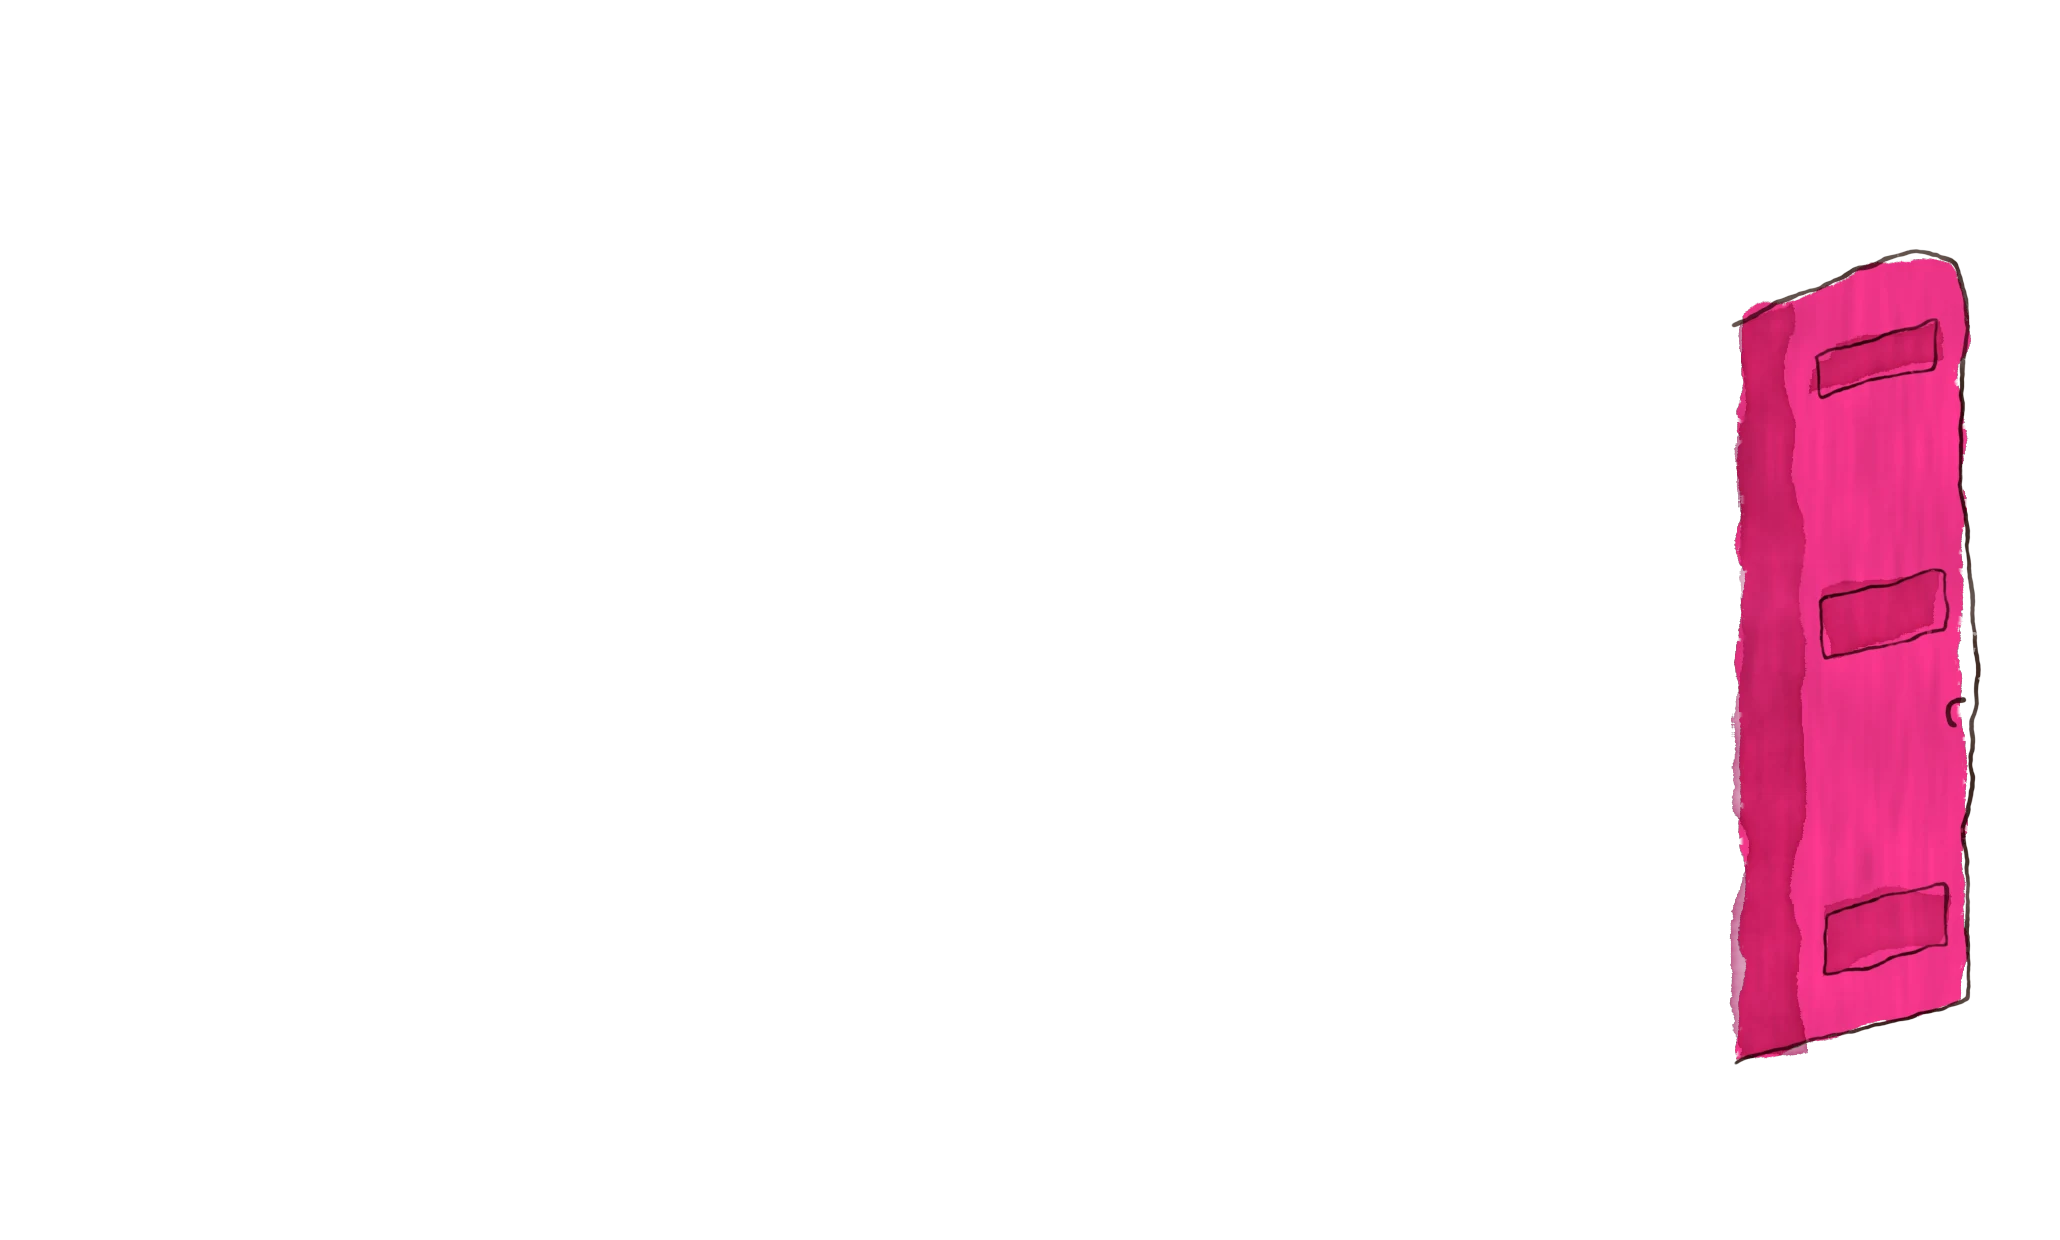
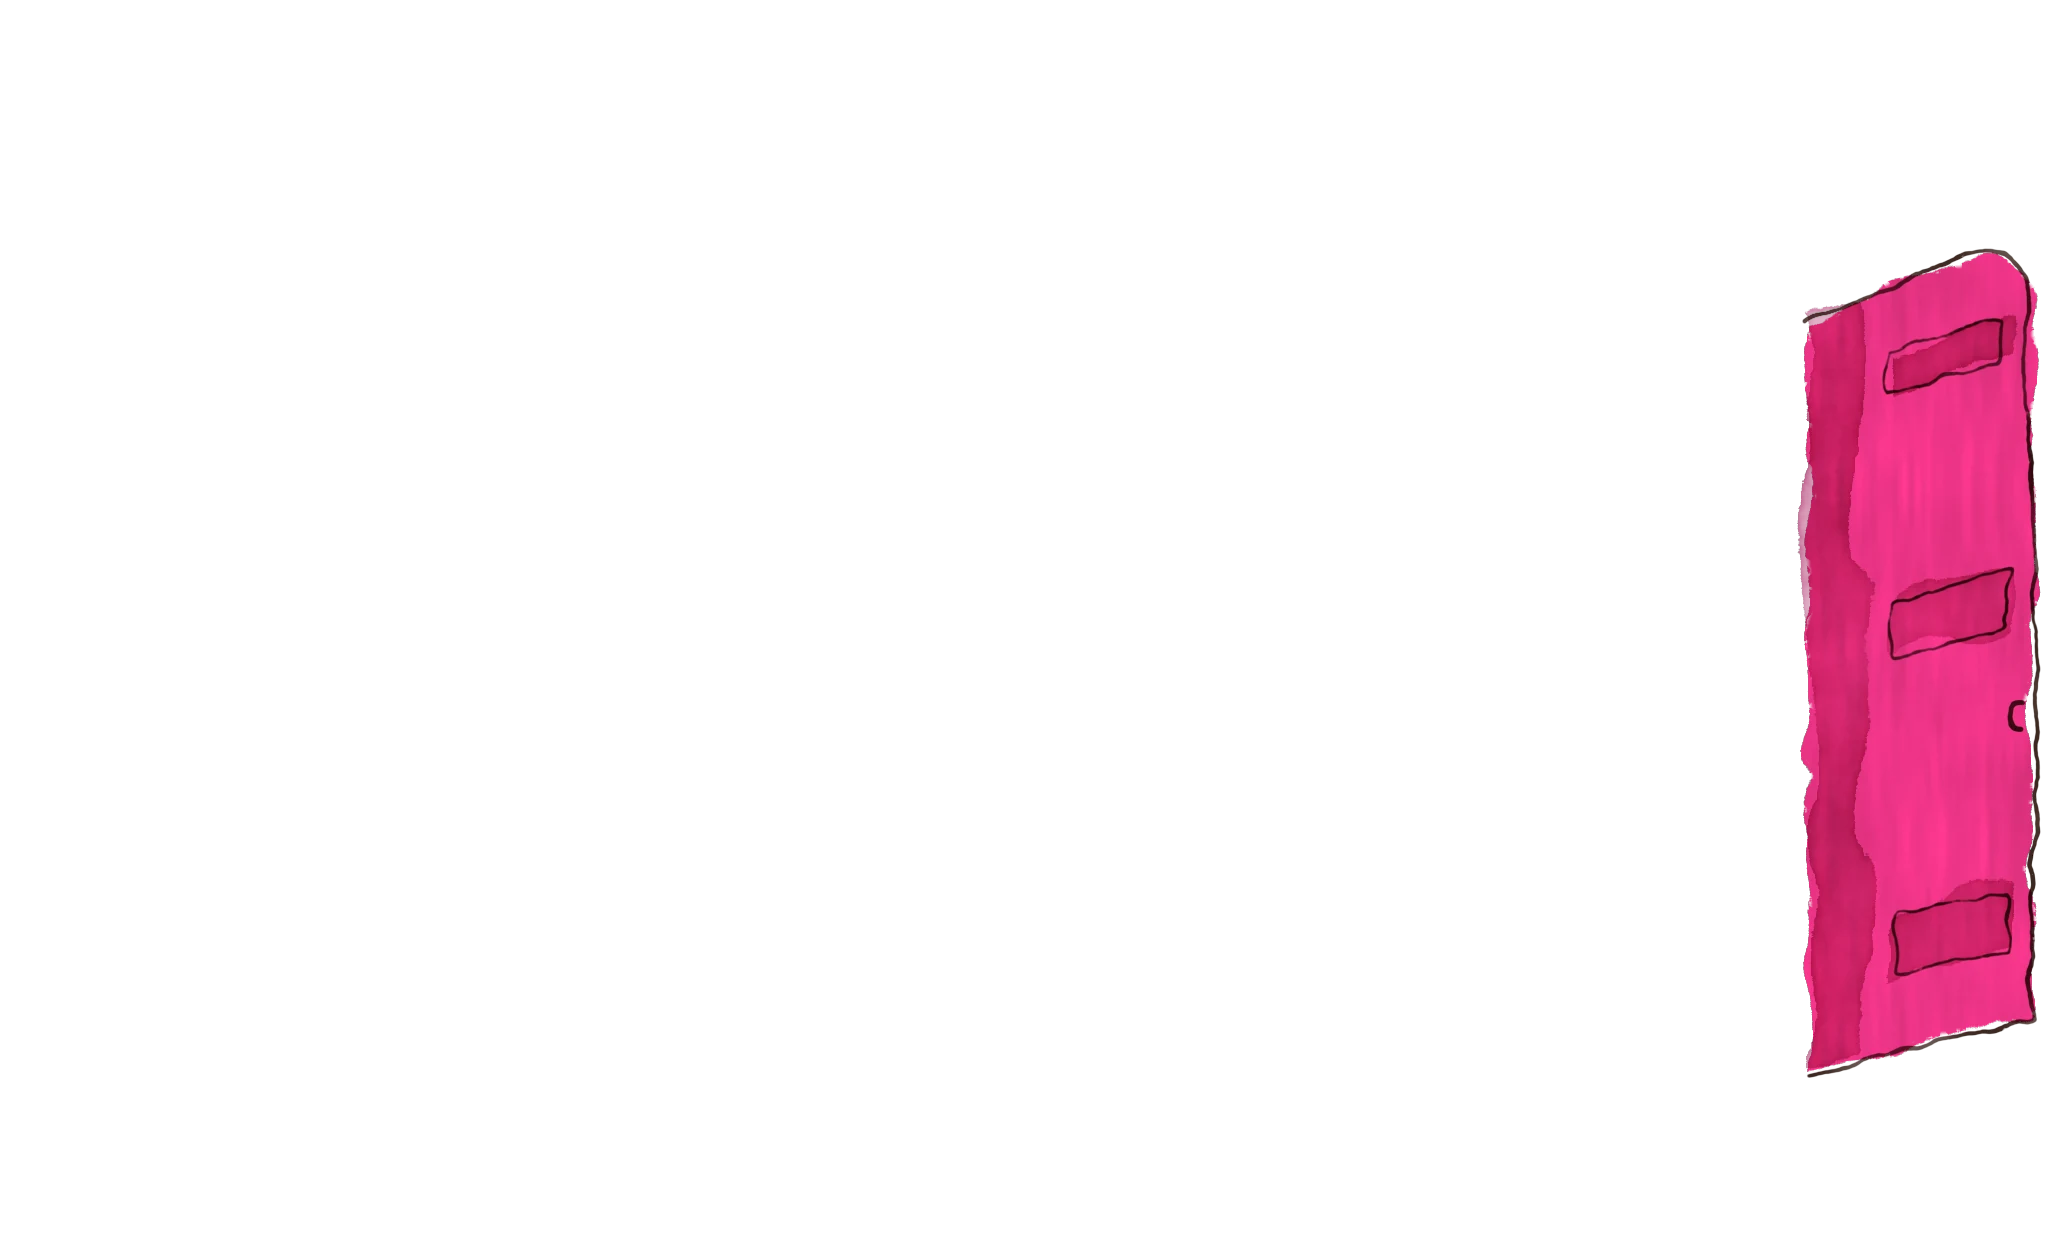
VIP door: slim frame (thinner wall and posts, shorter band above the opening, smaller plaque, pots tucked in), same rounded top; the video fills more of the door (about 690px at 1440)
Claude-Session: https://claude.ai/code/session_01MxqKXt8jC4twN2icxWpMeU

Changed region(s): [[0.8388, 0.1839, 0.9942, 0.8887]]

diff --git a/tools/paint/studio.html b/tools/paint/studio.html
@@ -439,62 +439,62 @@ svg[data-art]{background:transparent;display:block}
 </svg>
 
 <!-- hero · her door in Greece: the video sits in the arched opening (x170 y110 w670 h420); the blue door leaf swings open toward us -->
-<svg data-art="door" width="1030" height="620" viewBox="0 0 1030 620">
-  <g data-mat="shadow" fill="#8E98AA" data-density=".5"><ellipse cx="555" cy="588" rx="470" ry="14"/></g>
-  <g data-mat="gouache" data-angle="0" data-streak=".012"><path d="M96 560 V180 C96 100 190 50 320 50 H690 C820 50 914 100 914 180 V560 Z" fill="#FBF8F2"/></g>
-  <g data-mat="wash" fill="#D8CBB6" data-density=".7"><path d="M114 530 V196 C114 126 230 88 378 88 H632 C780 88 896 126 896 196 V530 H870 V200 C870 146 770 112 630 112 H380 C240 112 140 146 140 200 V530 Z"/></g>
-  <!-- Nov 4 (Sean: "i want everything to be visible ... i like the curves"): a wider opening and thinner posts, the same rounded top; inside, a soft recess so the 16:9 video sits fully under the curve -->
-  <g data-mat="gouache" data-angle="0" data-streak=".01"><path d="M140 530 V200 C140 146 240 112 380 112 H630 C770 112 870 146 870 200 V530 Z" fill="#E4DACA"/></g>
-  <g data-mat="shadow" fill="#8E7E6A" data-density=".5"><path d="M140 200 C140 146 240 112 380 112 H630 C770 112 870 146 870 200 V230 C840 190 760 150 630 150 H380 C250 150 170 190 140 230 Z"/></g>
-  <g data-mat="gouache" data-angle="0"><path d="M110 530 H900 L914 556 H96 Z" fill="#F1EADD"/><path d="M96 556 H914 L934 582 H76 Z" fill="#E7DDCB"/></g>
-  <g data-mat="wash" fill="#B7C0CC" data-density=".45"><path d="M108 556 H902 L906 562 H104 Z M76 582 H934 L936 588 H74 Z"/></g>
-  <g data-mat="wash" fill="#C9614E" data-rim="2.6"><path d="M12 582 L28 506 H118 L134 582 Z"/></g>
-  <g data-mat="wash" fill="#A9483A" data-density=".5"><path d="M24 520 H122 L120 528 H26 Z"/></g>
+<svg data-art="door" width="1032" height="620" viewBox="0 0 1032 620">
+  <!-- Nov 4 (Sean: "the graphic can maybe have a thinner frame"): a slim wall and posts around a bigger opening, a shorter
+       band above it, the pots tucked against the door; the same rounded top and hand-drawn line. The 16:9 video sits fully
+       under the curve -->
+  <g data-mat="shadow" fill="#8E98AA" data-density=".5"><ellipse cx="516" cy="592" rx="470" ry="13"/></g>
+  <g data-mat="gouache" data-angle="0" data-streak=".012"><path d="M84 566 V172 C84 94 182 46 326 46 H684 C828 46 926 94 926 172 V566 Z" fill="#FBF8F2"/></g>
+  <g data-mat="wash" fill="#D8CBB6" data-density=".7"><path d="M96 536 V184 C96 124 200 82 352 82 H658 C810 82 914 124 914 184 V536 H904 V180 C904 126 796 92 654 92 H356 C214 92 106 126 106 180 V536 Z"/></g>
+  <g data-mat="gouache" data-angle="0" data-streak=".01"><path d="M106 536 V180 C106 126 214 92 356 92 H654 C796 92 904 126 904 180 V536 Z" fill="#E4DACA"/></g>
+  <g data-mat="shadow" fill="#8E7E6A" data-density=".5"><path d="M106 180 C106 126 214 92 356 92 H654 C796 92 904 126 904 180 V206 C876 166 790 126 654 126 H356 C226 126 136 166 106 206 Z"/></g>
+  <g data-mat="gouache" data-angle="0"><path d="M100 536 H910 L922 560 H88 Z" fill="#F1EADD"/><path d="M84 560 H926 L944 584 H66 Z" fill="#E7DDCB"/></g>
+  <g data-mat="wash" fill="#B7C0CC" data-density=".45"><path d="M96 560 H914 L918 565 H92 Z M66 584 H944 L946 590 H64 Z"/></g>
+  <g data-mat="wash" fill="#C9614E" data-rim="2.6"><path d="M4 584 L18 510 H100 L114 584 Z"/></g>
+  <g data-mat="wash" fill="#A9483A" data-density=".5"><path d="M14 524 H104 L102 532 H16 Z"/></g>
   <g data-mat="wash" fill="#7E9A4E" data-rim="2.2" id="heroLeaves"></g>
   <g data-mat="gouache" data-angle="0" id="heroFlowers"></g>
   <g data-mat="wash" fill="#E05A92" data-rim="2" data-density=".8" id="heroBoug"></g>
   <g data-mat="wash" fill="#A8245E" data-rim="1.6" data-density=".55" id="heroBoug2"></g>
   <g data-mat="ink" stroke="#3A2A22" stroke-width="1.2" fill="none">
-    <path d="M96 560 V180 C96 100 190 50 320 50 H690 C820 50 914 100 914 180 V560"/>
-    <path d="M140 530 V200 C140 146 240 112 380 112 H630 C770 112 870 146 870 200 V530"/>
-    <path d="M114 530 V196 C114 126 230 88 378 88 H632 C780 88 896 126 896 196 V530" stroke-width=".8"/>
-    <path d="M110 530 H900 L914 556 H96 Z M96 556 H914 L934 582 H76 Z"/>
-    <path d="M12 582 L28 506 H118 L134 582 Z"/>
+    <path d="M84 566 V172 C84 94 182 46 326 46 H684 C828 46 926 94 926 172 V566"/>
+    <path d="M106 536 V180 C106 126 214 92 356 92 H654 C796 92 904 126 904 180 V536"/>
+    <path d="M96 536 V184 C96 124 200 82 352 82 H658 C810 82 914 124 914 184 V536" stroke-width=".8"/>
+    <path d="M100 536 H910 L922 560 H88 Z M84 560 H926 L944 584 H66 Z"/>
+    <path d="M4 584 L18 510 H100 L114 584 Z"/>
   </g>
-  <g data-mat="shadow" fill="#8E98AA" data-density=".6"><ellipse cx="508" cy="84" rx="78" ry="23"/></g>
-  <g data-mat="gouache" data-angle="0" data-streak=".01"><ellipse cx="505" cy="80" rx="78" ry="24" fill="#FFFCF3"/></g>
-  <g data-mat="wash" fill="#4F7FB4" data-density=".75" data-rim="1.4"><path d="M427 80 a78 24 0 1 0 156 0 a78 24 0 1 0 -156 0 Z M433 80 a72 19 0 1 1 144 0 a72 19 0 1 1 -144 0 Z" fill-rule="evenodd"/></g>
+  <g data-mat="shadow" fill="#8E98AA" data-density=".6"><ellipse cx="508" cy="71" rx="70" ry="19"/></g>
+  <g data-mat="gouache" data-angle="0" data-streak=".01"><ellipse cx="505" cy="67" rx="70" ry="20" fill="#FFFCF3"/></g>
+  <g data-mat="wash" fill="#4F7FB4" data-density=".75" data-rim="1.4"><path d="M435 67 a70 20 0 1 0 140 0 a70 20 0 1 0 -140 0 Z M441 67 a64 15.5 0 1 1 128 0 a64 15.5 0 1 1 -128 0 Z" fill-rule="evenodd"/></g>
   <g data-mat="gouache" data-angle="0" id="plaqueFlower"></g>
-  <g data-mat="flat" fill="#1A1412"><text x="476" y="86" class="sans" font-weight="800" font-size="15.5" letter-spacing="-.2">how we grow</text></g>
-  <g data-mat="ink" stroke="#1A1412" stroke-width="1" fill="none"><ellipse cx="505" cy="80" rx="78" ry="24"/></g>
-  <g data-mat="ink" stroke="#8A7A6E" stroke-width=".7" fill="none" data-density=".6"><path d="M42 250 h34 M36 330 h28 M50 420 h24 M940 260 h30 M948 420 h26 M380 26 h60 M660 30 h40"/></g>
+  <g data-mat="flat" fill="#1A1412"><text x="479" y="72.5" class="sans" font-weight="800" font-size="14" letter-spacing="-.2">how we grow</text></g>
+  <g data-mat="ink" stroke="#1A1412" stroke-width="1" fill="none"><ellipse cx="505" cy="67" rx="70" ry="20"/></g>
+  <g data-mat="ink" stroke="#8A7A6E" stroke-width=".7" fill="none" data-density=".6"><path d="M34 250 h34 M30 330 h28 M40 420 h24 M948 260 h30 M954 420 h26 M380 24 h60 M660 28 h40"/></g>
 </svg>
-<svg data-art="door-leaf" width="1030" height="620" viewBox="0 0 1030 620">
-  <g data-mat="gouache" data-angle="90"><path d="M870 530 L982 500 V150 C982 132 964 124 946 130 L870 160 Z" fill="#EC3486"/></g>
-  <g data-mat="wash" fill="#A3155A" data-density=".55"><path d="M870 530 L898 522 V152 L870 160 Z"/><path d="M910 486 L970 470 V440 L910 456 Z M910 330 L970 314 V284 L910 300 Z M910 196 L970 180 V160 L910 176 Z"/></g>
-
+<svg data-art="door-leaf" width="1032" height="620" viewBox="0 0 1032 620">
+  <g data-mat="gouache" data-angle="90"><path d="M904 536 L1016 506 V150 C1016 132 998 124 980 130 L904 160 Z" fill="#EC3486"/></g>
+  <g data-mat="wash" fill="#A3155A" data-density=".55"><path d="M904 536 L932 528 V152 L904 160 Z"/><path d="M944 490 L1004 474 V444 L944 460 Z M944 330 L1004 314 V284 L944 300 Z M944 196 L1004 180 V160 L944 176 Z"/></g>
   <g data-mat="ink" stroke="#3A2A22" stroke-width="1.2" fill="none">
-    <path d="M870 530 L982 500 V150 C982 132 964 124 946 130 L870 160"/>
-    <path d="M910 486 L970 470 V440 L910 456 Z M910 330 L970 314 V284 L910 300 Z M910 196 L970 180 V160 L910 176 Z" stroke-width=".8"/>
-    <path d="M974 350 c-8 0 -8 14 0 14" stroke-width="1.6"/>
+    <path d="M904 536 L1016 506 V150 C1016 132 998 124 980 130 L904 160"/>
+    <path d="M944 490 L1004 474 V444 L944 460 Z M944 330 L1004 314 V284 L944 300 Z M944 196 L1004 180 V160 L944 176 Z" stroke-width=".8"/>
+    <path d="M1008 350 c-8 0 -8 14 0 14" stroke-width="1.6"/>
   </g>
 </svg>
-<svg data-art="door-potr" width="1030" height="620" viewBox="0 0 1030 620">
-  <!-- Nov 4 (Sean: "put the right sunflower closer to the door so we can scale up this whole thing"): the right pot sits
-       against the door, in front of the open leaf's foot -->
-  <g data-mat="shadow" fill="#8E98AA" data-density=".55"><ellipse cx="958" cy="586" rx="74" ry="9"/></g>
-  <g data-mat="wash" fill="#C9614E" data-rim="2.6"><path d="M896 582 L912 506 H1002 L1018 582 Z"/></g>
-  <g data-mat="wash" fill="#A9483A" data-density=".5"><path d="M908 520 H1006 L1004 528 H910 Z"/></g>
+<svg data-art="door-potr" width="1032" height="620" viewBox="0 0 1032 620">
+  <!-- the right pot sits against the door, in front of the open leaf's foot -->
+  <g data-mat="shadow" fill="#8E98AA" data-density=".55"><ellipse cx="972" cy="588" rx="64" ry="8"/></g>
+  <g data-mat="wash" fill="#C9614E" data-rim="2.6"><path d="M916 584 L930 510 H1012 L1026 584 Z"/></g>
+  <g data-mat="wash" fill="#A9483A" data-density=".5"><path d="M926 524 H1016 L1014 532 H928 Z"/></g>
   <g data-mat="wash" fill="#7E9A4E" data-rim="2.2" id="heroLeavesR"></g>
   <g data-mat="gouache" data-angle="0" id="heroFlowersR"></g>
-  <g data-mat="ink" stroke="#3A2A22" stroke-width="1.2" fill="none"><path d="M896 582 L912 506 H1002 L1018 582 Z"/></g>
+  <g data-mat="ink" stroke="#3A2A22" stroke-width="1.2" fill="none"><path d="M916 584 L930 510 H1012 L1026 584 Z"/></g>
 </svg>
-<svg data-art="door-closed" width="1030" height="620" viewBox="0 0 1030 620">
-  <g data-mat="gouache" data-angle="90"><path d="M140 530 V200 C140 146 240 112 380 112 H630 C770 112 870 146 870 200 V530 Z" fill="#EC3486"/></g>
-  <g data-mat="wash" fill="#A3155A" data-density=".45"><path d="M230 230 H780 V340 H230 Z M230 370 H780 V500 H230 Z"/></g>
-  <g data-mat="gouache" fill="#F5C518"><circle cx="186" cy="380" r="10"/></g>
-  <g data-mat="ink" stroke="#3A2A22" stroke-width="1.2" fill="none"><path d="M140 530 V200 C140 146 240 112 380 112 H630 C770 112 870 146 870 200 V530 Z"/><path d="M230 230 H780 V340 H230 Z M230 370 H780 V500 H230 Z" stroke-width=".9"/><circle cx="186" cy="380" r="10"/></g>
-  <g data-mat="white" fill="none" stroke="#FFE3EF" stroke-width="2.6" stroke-linecap="round"><path d="M160 520 V230" /><path d="M520 140 v60" stroke-width="2"/></g>
+<svg data-art="door-closed" width="1032" height="620" viewBox="0 0 1032 620">
+  <g data-mat="gouache" data-angle="90"><path d="M106 536 V180 C106 126 214 92 356 92 H654 C796 92 904 126 904 180 V536 Z" fill="#EC3486"/></g>
+  <g data-mat="wash" fill="#A3155A" data-density=".45"><path d="M196 230 H814 V340 H196 Z M196 370 H814 V506 H196 Z"/></g>
+  <g data-mat="gouache" fill="#F5C518"><circle cx="150" cy="380" r="10"/></g>
+  <g data-mat="ink" stroke="#3A2A22" stroke-width="1.2" fill="none"><path d="M106 536 V180 C106 126 214 92 356 92 H654 C796 92 904 126 904 180 V536 Z"/><path d="M196 230 H814 V340 H196 Z M196 370 H814 V506 H196 Z" stroke-width=".9"/><circle cx="150" cy="380" r="10"/></g>
+  <g data-mat="white" fill="none" stroke="#FFE3EF" stroke-width="2.6" stroke-linecap="round"><path d="M124 526 V230" /><path d="M520 120 v60" stroke-width="2"/></g>
 </svg>
 
 <svg data-art="mini-rev" width="160" height="200" viewBox="0 0 160 200">
@@ -1518,7 +1518,7 @@ document.fonts.ready.then(() => {
   if (hl) { let L = '', F = '', B = '';
     // sunflowers in the two pots, bookends (Hotel Le Luv's topiaries)
     let LR = '', FR = '';
-    [[72, 506], [956, 506]].forEach(([x, y], k) => { let L0 = L.length, F0 = F.length; const stems = k ? [[-30, 132, -10], [-4, 186, -4], [26, 150, 8]] : [[-26, 150, -8], [6, 190, 4], [32, 132, 12]];
+    [[58, 510], [972, 510]].forEach(([x, y], k) => { let L0 = L.length, F0 = F.length; const stems = k ? [[-30, 132, -10], [-4, 186, -4], [26, 150, 8]] : [[-26, 150, -8], [6, 190, 4], [32, 132, 12]];
       stems.forEach(([dx, hgt, lean]) => { const tx = x + dx + lean, ty = y - hgt;
         L += `<path d="M${x + dx} ${y} C${x + dx} ${y - hgt * .5} ${tx} ${ty + 40} ${tx} ${ty}" stroke="#5E7F3A" stroke-width="5" fill="none"/>`;
         L += `<ellipse cx="${x + dx + 12}" cy="${y - hgt * .45}" rx="16" ry="6" transform="rotate(-30 ${x + dx + 12} ${y - hgt * .45})"/><ellipse cx="${x + dx - 12}" cy="${y - hgt * .65}" rx="15" ry="5.5" transform="rotate(28 ${x + dx - 12} ${y - hgt * .65})"/>`;
@@ -1528,15 +1528,15 @@ document.fonts.ready.then(() => {
     if (document.getElementById('heroLeavesR')) { document.getElementById('heroLeavesR').innerHTML = LR; document.getElementById('heroFlowersR').innerHTML = FR }
     // bougainvillea over the arch: clusters of papery bracts hugging the wall's top left, hanging down its side
     let B2 = '';
-    for (let i = 0; i < 64; i++) { const t = Math.pow(rnd(), 1.4), ang = Math.PI * (1.0 - t * .5), cx = 505 + Math.cos(ang) * (412 + (rnd() - .5) * 40), cy = 196 - Math.sin(ang) * (150 + (rnd() - .5) * 34) + (t < .12 ? rnd() * 160 : 0);
+    for (let i = 0; i < 64; i++) { const t = Math.pow(rnd(), 1.4), ang = Math.PI * (1.0 - t * .5), cx = 505 + Math.cos(ang) * (420 + (rnd() - .5) * 36), cy = 190 - Math.sin(ang) * (148 + (rnd() - .5) * 30) + (t < .12 ? rnd() * 160 : 0);
       const n = 6 + Math.floor(rnd() * 6);
       for (let j = 0; j < n; j++) { const x = cx + (rnd() - .5) * 30, y = cy + (rnd() - .5) * 24, r = 4.2 + rnd() * 2.6, a2 = rnd() * 360;
         const sh = `<path d="M${x} ${y} c${r} ${-r * 1.4} ${r * 2.2} ${-r * .2} ${r * .2} ${r * 1.5} c${-r * 1.6} ${r * .4} ${-r * 1.8} ${-r} ${-r * .2} ${-r * 1.5} Z" transform="rotate(${a2} ${x} ${y})"/>`;
         if (rnd() < .3) B2 += sh; else B += sh }
       if (rnd() < .6) L += `<ellipse cx="${cx + (rnd() - .5) * 30}" cy="${cy + 8 + rnd() * 8}" rx="${8 + rnd() * 4}" ry="${3.6 + rnd() * 1.4}" transform="rotate(${rnd() * 180} ${cx} ${cy + 10})"/>` }
     document.getElementById('heroBoug2').innerHTML = B2;
-    let PF = ''; for (let i = 0; i < 12; i++) PF += `<ellipse cx="458" cy="70" rx="3.4" ry="7.4" fill="#F5C518" transform="rotate(${i * 30} 458 80)"/>`;
-    PF += '<circle cx="458" cy="80" r="6.6" fill="#1A1412"/><path d="M454.6 81.5 q3.4 3 6.8 0" stroke="#F5C518" stroke-width="1.3" fill="none" stroke-linecap="round"/><circle cx="456" cy="78.4" r=".9" fill="#F5C518"/><circle cx="460" cy="78.4" r=".9" fill="#F5C518"/>';
+    let PF = ''; for (let i = 0; i < 12; i++) PF += `<ellipse cx="462" cy="58" rx="3" ry="6.6" fill="#F5C518" transform="rotate(${i * 30} 462 67)"/>`;
+    PF += '<circle cx="462" cy="67" r="6" fill="#1A1412"/><path d="M459 68.4 q3 2.7 6 0" stroke="#F5C518" stroke-width="1.2" fill="none" stroke-linecap="round"/><circle cx="460.2" cy="65.6" r=".8" fill="#F5C518"/><circle cx="463.8" cy="65.6" r=".8" fill="#F5C518"/>';
     document.getElementById('plaqueFlower').innerHTML = PF;
     hl.innerHTML = L; hf.innerHTML = F; hb.innerHTML = B }
 

diff --git a/vip/index.html b/vip/index.html
@@ -1102,7 +1102,7 @@ body{background:#F4ECDD var(--paper) 0 0/512px}
 .door-art{display:block;width:100%;height:auto;pointer-events:none}
 /* Nov 4 (Sean: "i want everything to be visible ... i like the curves"): the video sits fully under the arch, 16:9, so
    nothing in it is cut; the arch keeps its rounded top above it */
-.door-v{position:absolute;left:16.990%;top:25.645%;width:64.078%;height:59.839%;overflow:hidden;border-radius:3px}
+.door-v{position:absolute;left:14.244%;top:21.452%;width:69.380%;height:65.000%;overflow:hidden;border-radius:3px}
 .door-v:after{content:"";position:absolute;inset:0;pointer-events:none;box-shadow:inset 0 10px 18px -8px rgba(60,35,15,.45),inset 8px 0 14px -10px rgba(60,35,15,.35)}
 .door .scr{height:100%;aspect-ratio:auto;border-radius:0}
 .door .scr img.mk{display:none}
@@ -1247,7 +1247,7 @@ body{background:var(--page)}
 /* ---- hero: the door opens on her ---- */
 .door-leaf,.door-closed{position:absolute;inset:0;width:100%;height:auto;pointer-events:none}
 .door-leaf{opacity:0;animation:leafin .5s ease-out 1.75s forwards}
-.door-closed{transform-origin:84.466% 50%;animation:dswing 1.6s var(--swing) .55s forwards;z-index:2}
+.door-closed{transform-origin:87.597% 50%;animation:dswing 1.6s var(--swing) .55s forwards;z-index:2}
 @keyframes dswing{0%{transform:perspective(1600px) rotateY(0)}12%{transform:perspective(1600px) rotateY(4deg)}80%{opacity:1}100%{transform:perspective(1600px) rotateY(-84deg);opacity:0}}
 @keyframes leafin{from{opacity:0;transform:translateX(-1.2%) scaleX(.94)}to{opacity:1;transform:none}}
 .door .door-v .scr img{animation:warm 1.6s var(--glide) .9s both}
@@ -2085,7 +2085,7 @@ body.is-closed .bdg-life{display:none}
     <div class="vh-grid">
       <div class="vh-l">
         <div class="door" id="vsl">
-          <img class="door-art" src="../img/vip/paint/door.webp?v=3" alt="" width="1030" height="620" fetchpriority="high">
+          <img class="door-art" src="../img/vip/paint/door.webp?v=4" alt="" width="1032" height="620" fetchpriority="high">
           <div class="door-v"><button class="scr" type="button" aria-label="Play Ana's VIP video">
               
               <img src="img/cover.webp" alt="Ana Calin" width="1280" height="720" fetchpriority="high">
@@ -2093,10 +2093,10 @@ body.is-closed .bdg-life{display:none}
               <img class="mk" src="../img/mark.png" alt="" width="56" height="56">
               <span class="vplay"><i><svg width="18" height="18" viewBox="0 0 26 26" aria-hidden="true"><path d="M8.6 5.6v14.8c0 .9 1 1.4 1.7 1l11.6-7.4c.7-.4.7-1.4 0-1.9L10.3 4.6c-.7-.5-1.7 0-1.7 1z" fill="#F72585"/></svg></i>tap for sound</span>
             </button></div>
-          <svg class="petals" viewBox="0 0 1030 620" aria-hidden="true"></svg>
-          <img class="door-leaf" src="../img/vip/paint/door-leaf.webp?v=3" alt="" width="1030" height="620" aria-hidden="true">
-          <img class="door-closed" src="../img/vip/paint/door-closed.webp?v=3" alt="" width="1030" height="620" aria-hidden="true">
-          <img class="door-potr" src="../img/vip/paint/door-potr.webp" alt="" width="1030" height="620" aria-hidden="true">
+          <svg class="petals" viewBox="0 0 1032 620" aria-hidden="true"></svg>
+          <img class="door-leaf" src="../img/vip/paint/door-leaf.webp?v=4" alt="" width="1032" height="620" aria-hidden="true">
+          <img class="door-closed" src="../img/vip/paint/door-closed.webp?v=4" alt="" width="1032" height="620" aria-hidden="true">
+          <img class="door-potr" src="../img/vip/paint/door-potr.webp?v=2" alt="" width="1032" height="620" aria-hidden="true">
         </div>
         <p class="under"><b>A minute with me before you decide.</b> Here’s what VIP adds to your free seat.</p>
 
